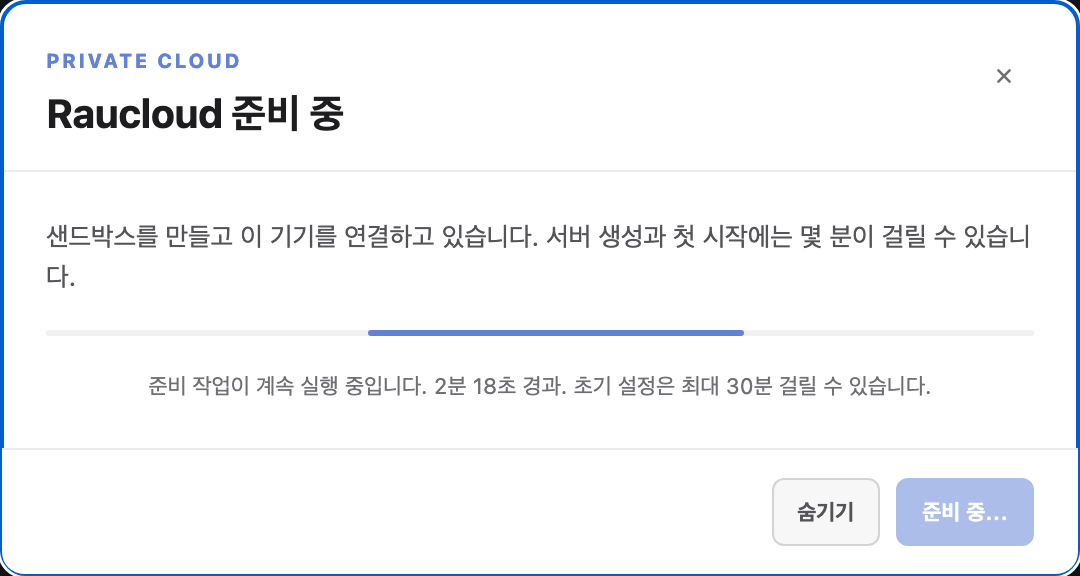
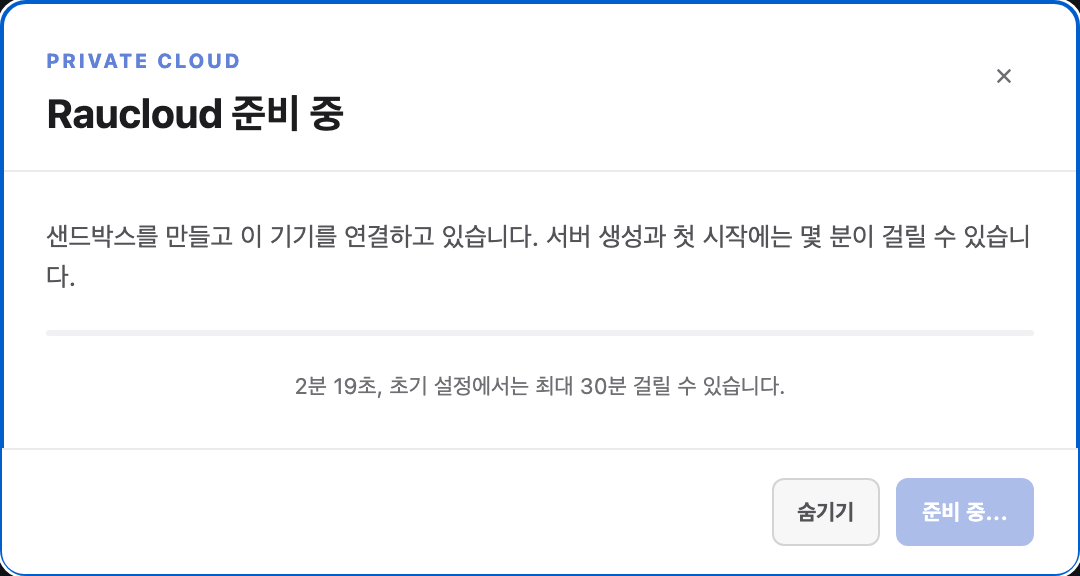
Simplify Raucloud setup progress copy

Changed region(s): [[0.1222, 0.6562, 0.8556, 0.6875], [0.3361, 0.5625, 0.7028, 0.5938]]

diff --git a/rhwp/rhwp-studio/tests/cloud-app-servers.test.ts b/rhwp/rhwp-studio/tests/cloud-app-servers.test.ts
@@ -397,7 +397,7 @@ test('the dialog offers both servers and only restorable sandbox actions', () =>
   assert.match(onboarding, /운영자가 \$\{provider\.missingConfig\.join\(', '\)\}/);
   assert.match(onboarding, /state\.kind !== 'sandbox-intro' && state\.kind !== 'sandbox-failed'/);
   assert.match(onboarding, /kind: 'sandbox-provisioning'/);
-  assert.match(onboarding, /최대 \$\{RAUCLOUD_SETUP_WAIT_MINUTES\}분/);
+  assert.match(onboarding, /\$\{raucloudSetupElapsed\(startedAt\)\}, 초기 설정에서는 최대 \$\{RAUCLOUD_SETUP_WAIT_MINUTES\}분/);
   assert.match(onboarding, /진행 보기/);
   assert.match(onboarding, /Raucloud를 종료하고 있습니다/);
   assert.match(onboarding, /Raucloud · /);

diff --git a/rhwp/rhwp-studio/src/ui/agent-sidebar/cloud-onboarding.ts b/rhwp/rhwp-studio/src/ui/agent-sidebar/cloud-onboarding.ts
@@ -152,7 +152,7 @@ export function createCloudOnboarding(deps: CloudOnboardingDeps): CloudOnboardin
   }
 
   function setupProgressText(startedAt: number): string {
-    return `준비 작업이 계속 실행 중입니다. ${raucloudSetupElapsed(startedAt)} 경과. 초기 설정은 최대 ${RAUCLOUD_SETUP_WAIT_MINUTES}분 걸릴 수 있습니다.`;
+    return `${raucloudSetupElapsed(startedAt)}, 초기 설정에서는 최대 ${RAUCLOUD_SETUP_WAIT_MINUTES}분 걸릴 수 있습니다.`;
   }
 
   function updateSetupProgress(): void {
